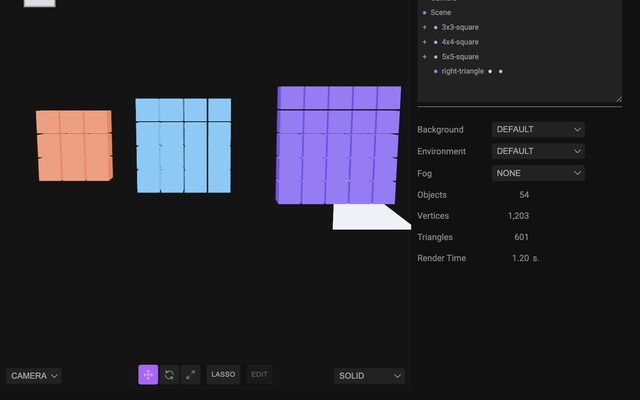
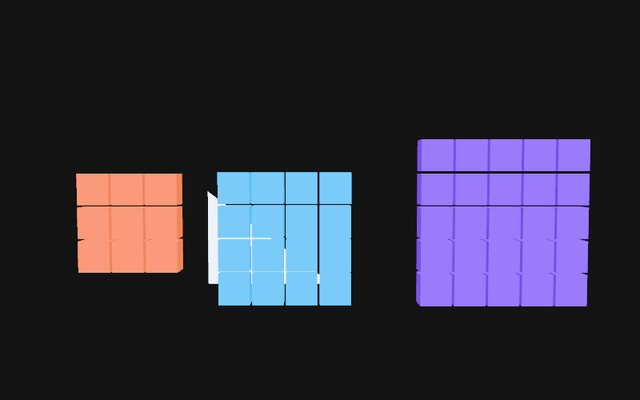
Make the Pythagorean-short tutorial run as written; moveTo no longer clamps y
An audit that pasted every block of the tutorial, in order, into an empty
scene found it did not produce the scene it describes:

- moveTo clamped y to >= 0 (a "ground floor" guard meant for relative move),
  so the 4x4 square, the triangle and the labels, which sit at negative y,
  all landed at y = 0 on top of each other. moveTo now places exactly; move
  keeps its guard. Noted in JS_SHELL.md.
- The dissection reveal had no targets: $S(node) is not supported (only a
  selector or an array of nodes) and class names are stored lowercase, so
  .cellA/.cellB matched nothing. Blocks now use the array form and
  lowercase kebab names.
- The two call-card blocks shared variables across pastes, which the Shell
  does not keep; the prose lines were separate pastes. They now hand state
  through window.pushIn and are one block.
- scale(8) multiplies the card the stencil had already enlarged (~160x);
  scaleTo(8) is absolute.
- lookAt on a mesh points +Z at the target, so the extra rotateY(PI) left the
  card facing away (mirrored). Removed, and the explanation corrected.
- The push-in maths assumed fov 36; it now reads the live camera's fov.

Verified by running the page's own blocks in a fresh editor: the 9 and 16
cells land on their targets at 7.5 s, and at 13.5 s the card is opaque,
faces the camera and is 7.4 units away. The step-1 screenshot and the
listing thumbnail are regenerated from that run, and a new final step links
[…]

diff --git a/docs/about/tutorials/makeshort.html b/docs/about/tutorials/makeshort.html
@@ -119,7 +119,7 @@
 	<h1>Make a Pythagorean-theorem short</h1>
 		<iframe src="../../#repo=tejaswigowda/test1&file=pyth.json&present=true"></iframe>
 
-	<p class="tagline">Three squares, a right triangle, a classic dissection proof, and a living end-card — built entirely by hand, no AI, via the JS Shell and the Universal Timeline. Open the <a href="../../">editor</a>, open the <strong>Shell</strong> tab, and paste each block in order.</p>
+	<p class="tagline">Three squares, a right triangle, a classic dissection proof, and a living end-card — built entirely by hand, no AI, via the JS Shell and the Universal Timeline. Open the <a href="../../">editor</a>, open the <strong>Shell</strong> tab, and paste each block in order — or open the finished scene, <a href="../../#repo=tejaswigowda/test1&amp;file=pyth.json&amp;branch=main">pyth.json</a> (<a href="#open-finished">step 9</a>).</p>
 
 	<div class="note"><strong>Why the Shell, not clicking.</strong> Every edit below is a real, undoable, git-diffable command (<code>editor.execute(...)</code> under the hood) — the Shell is just the fastest way to author them. You can always inspect or hand-tweak the result afterward in the Outliner/Object panel; nothing here is a special "script mode."</div>
 
@@ -197,13 +197,15 @@ $S('#eqn').at(2).change('a\u00B2 + b\u00B2 = c\u00B2');</code></pre>
 	<h2><span class="step">4</span> The dissection reveal</h2>
 	<p class="lede">This is the actual proof, staged as motion: the 3×3 and 4×4 squares' cells migrate onto the 5×5 square's cells. <code>moveToEach</code> pairs sources to targets <em>positionally</em> — split the 5×5's 25 cells into a 9-cell group and a 16-cell group first so the counts line up.</p>
 	<pre><code>// however you partition the 25 cells into a 9-set and a 16-set —
-// by hand-picked indices, or however suits your layout:
+// by hand-picked indices, or however suits your layout. $S takes a selector
+// or an ARRAY of nodes (not a single node), and class names are stored
+// lowercase, so use lowercase in both addClass and the selectors below.
 const cells = $S('#5x5-square .cube').nodes;
-cells.slice(0, 9).forEach(c => $S(c).addClass('cellA'));
-cells.slice(9, 25).forEach(c => $S(c).addClass('cellB'));
+$S(cells.slice(0, 9)).addClass('cell-a');
+$S(cells.slice(9, 25)).addClass('cell-b');
 
-$S('#3x3-square .cube').at(4).moveToEach('#5x5-square .cellA', 3000);
-$S('#4x4-square .cube').at(4).moveToEach('#5x5-square .cellB', 3000);
+$S('#3x3-square .cube').at(4).moveToEach('#5x5-square .cell-a', 3000);
+$S('#4x4-square .cube').at(4).moveToEach('#5x5-square .cell-b', 3000);
 $S('#eqn').at(5).change('9 + 16 = 25', { transition: 'fade', dur: 300 });</code></pre>
 	<div class="note"><strong>Why 3 seconds, not less.</strong> 25 cubes migrating at once reads as a blur under ~1s — slow enough to migrate for a full 3 seconds and a viewer can actually track "those 9 went there, those 16 went there." This is the exact duration used to render the real short; a faster value looks fine scrubbing by hand in the editor but reads as a pop in real-time playback.</div>
 	<p>Scrub the timeline (Animations tab) back and forth — the reveal is fully deterministic and reversible, because the destinations are baked from the 5×5 square's <em>actual</em> cell positions at compile time, not hand-typed coordinates. Move the 5×5 square and the reveal re-targets automatically.</p>
@@ -237,12 +239,19 @@ const dir = startLookAt.clone().sub(startPos).normalize();
 const cardScale = 8;
 const cardPos = startPos.clone().sub(dir.clone().multiplyScalar(15)); // behind the camera
 $S('#callcard').moveTo(cardPos.x, cardPos.y, cardPos.z);
-$S('#callcard').scale(cardScale);</code></pre>
-	<div class="note">Face it back toward the camera's start position — <code>lookAt()</code> aims the plane's local -Z at its target, which points the FRONT (+Z) face <em>away</em> from it, so follow with a 180° turn to flip the front face back around. This works for <strong>any</strong> relative angle, not just "same side" vs. "opposite side": <code>$S('#callcard').nodes[0].lookAt(startPos); $S('#callcard').nodes[0].rotateY(Math.PI);</code> (the same math <code>fitCallcardToCamera()</code> in <code>docs/editor/js/Callcard.js</code> uses to auto-orient a freshly-added card). Getting the front/back backwards doesn't hide the card (the material is double-sided) — it shows the card <strong>mirrored</strong>, which is the tell. It starts effectively hidden by being fully transparent (<code>$S('#callcard').nodes[0].material.opacity = 0</code>); fade it in during the reveal below rather than toggling visibility by hand.</div>
+$S('#callcard').scaleTo(cardScale); // absolute: the stencil already fitted the card to the viewport at some other scale
+
+// face the card toward the camera's start position, then make it fully transparent
+$S('#callcard').nodes[0].lookAt(startPos);
+$S('#callcard').nodes[0].material.opacity = 0;
+
+window.pushIn = { dir, cardPos, cardScale };   // the Shell does not keep variables between pastes</code></pre>
+	<div class="note"><strong>Three things in that block that are easy to get wrong.</strong> <code>scaleTo</code> sets an absolute scale; <code>scale</code> multiplies the current one, and the stencil has already scaled the card up to fill the viewport, so <code>scale(8)</code> lands at roughly 160×. <code>lookAt()</code> on a <em>mesh</em> points its local <strong>+Z</strong> (the front face) at the target; only cameras and lights aim -Z, so there is no extra 180° turn to add. This works for any relative angle. Getting the front/back backwards doesn't hide the card (the material is double-sided), it shows the card <strong>mirrored</strong>, which is the tell. And the card starts effectively hidden by being fully transparent (<code>material.opacity = 0</code>); fade it in during the reveal below rather than toggling visibility by hand. The last line is there because each paste is its own scope: the next block reads the values back from <code>window.pushIn</code>.</div>
 
 	<p>Now the reveal: a two-leg <strong>push-in</strong>, not a snap-to-position. Compute the distance where the card's real width exactly spans the camera's horizontal FOV, land a little closer than that (a small overfill reads as "fills the frame" better than an exact fit), and turn to face it while closing that distance:</p>
-	<pre><code>const fov = 36, aspect = 16 / 9;
-const cardWidth = 1.8 * cardScale;
+	<pre><code>const { dir, cardPos, cardScale } = window.pushIn;
+const fov = camera.fov, aspect = 16 / 9;   // the live camera's FOV (50 by default), and a 16:9 render frame
+const cardWidth = 1.8 * cardScale;   // the call card is 1.8 wide by 3.2 tall (portrait) before scaling
 const hFov = 2 * Math.atan(Math.tan(THREE.MathUtils.degToRad(fov) / 2) * aspect);
 const fillDistance = (cardWidth / 2) / Math.tan(hFov / 2) * 0.85; // slight overfill
 
@@ -263,6 +272,10 @@ $S('#callcard').at(8.3).fadeIn(2.2);</code></pre>
 	</ol>
 
 	<div class="note"><strong>Everything above is git-versioned.</strong> Commit from the Git tab whenever you like — the timeline, the geometry, and the call-card <em>reference</em> (never a copy of its pixels) all round-trip through the same scene JSON. See <a href="../../../guides/ANIMATION.md">the animation guide</a> and <a href="../../../guides/CALLCARD.md">the call-card guide</a> for the full grammar this tutorial only samples.</div>
+
+	<h2 id="open-finished"><span class="step">9</span> Open the finished scene</h2>
+	<p class="lede"><a href="../../#repo=tejaswigowda/test1&amp;file=pyth.json&amp;branch=main">pyth.json</a> in <code>tejaswigowda/test1</code> is exactly what these blocks build, plus the Text and Call card stencil steps: the three squares, the triangle, the three labels, the gradient background and the call card, with the 13.5-second timeline from steps 3 to 7. Open it, then scrub the Animations tab: at 7.5&nbsp;s all 25 cells of the two small squares sit on the 5×5, and at 13.5&nbsp;s the call card fills the frame.</p>
+	<div class="note"><strong>What was checked.</strong> Every block on this page was pasted, one paste at a time, into an empty scene, and the result was read back: the labels and triangle land where the blocks say, the 9 and 16 cells match their targets, the call card faces the camera (so it is not mirrored) and ends 7.4 units from it. Rendering (step 8) was not re-run for this revision.</div>
 
 	<footer>
 		<a href="./">← All tutorials</a> · <a href="../">About</a>

diff --git a/docs/editor/js/intelligence/editOps.js b/docs/editor/js/intelligence/editOps.js
@@ -980,9 +980,11 @@ export function moveToOp( editor, selector, x, y, z ) {
 
 	}
 
+	// Absolute coordinates are taken as typed. (The relative `move` keeps objects at y >= 0; moveTo does not,
+	// because a scene may legitimately sit below zero: a track with relief, a tutorial's labels under a row of squares.)
 	const safePos = {
 		x: clamp( parseFloat( x ) || 0, -1000, 1000 ),
-		y: clamp( parseFloat( y ) || 0, 0, 1000 ),
+		y: clamp( parseFloat( y ) || 0, -1000, 1000 ),
 		z: clamp( parseFloat( z ) || 0, -1000, 1000 ),
 	};
 

diff --git a/guides/JS_SHELL.md b/guides/JS_SHELL.md
@@ -162,7 +162,7 @@ exportGLB()  exportGLTF()  exportOBJ()  exportSTL()  exportPLY()   // selection,
 
 | UI action | Shell / `$S` | Undoable |
 |---|---|---|
-| Move / rotate / scale gizmo | `$S(sel).move/rotate/scale`, `.moveTo/.rotateTo/.scaleTo`, `.position/.rotation/.scale/.quaternion` | ✓ |
+| Move / rotate / scale gizmo | `$S(sel).move/rotate/scale`, `.moveTo/.rotateTo/.scaleTo`, `.position/.rotation/.scale/.quaternion` (`.move` keeps objects at y ≥ 0; `.moveTo` places exactly, including below zero; `.scale` multiplies, `.scaleTo` sets) | ✓ |
 | Inspector: material colour | `$S(sel).recolor(color)` / `.emissive(color)` | ✓ |
 | Inspector: metalness / roughness / emissive intensity / flat shading / side | `$S(sel).metalness/.roughness/.emissiveIntensity/.flatShading/.doubleSided` | ✓ |
 | Inspector: opacity / visibility / wireframe | `$S(sel).setOpacity/.setVisible/.show/.hide/.wireframe` | ✓ |
